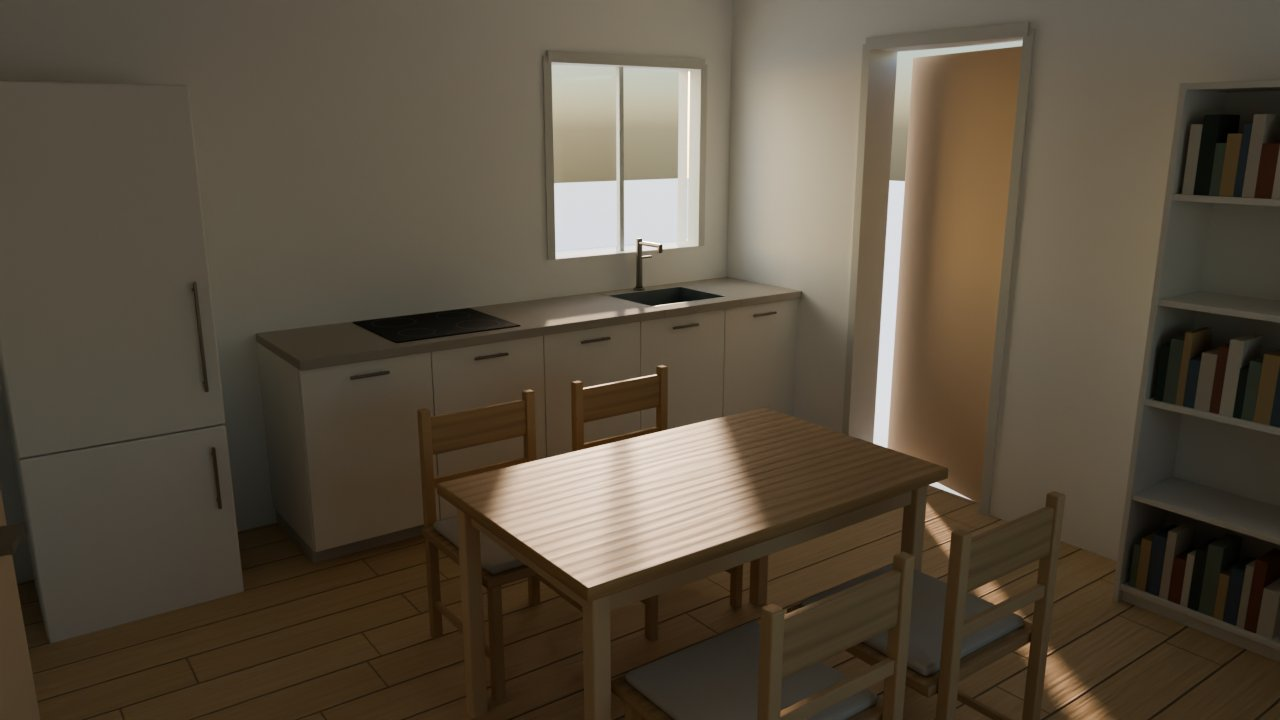
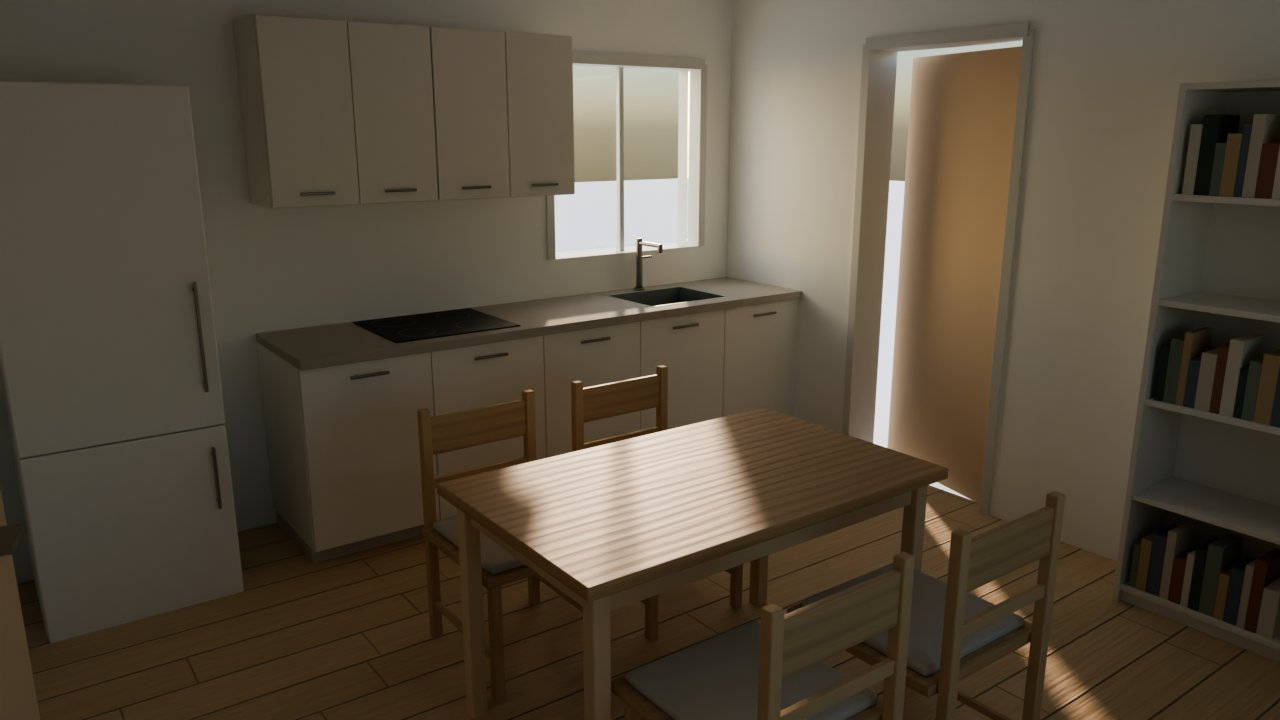
feat: parametric kitchen modules and hung wall cabinets
Catalog modules (base, sink, hob, oven, column, wall, vanity) are now
built from parts with bar handles or a gola/finger-pull option; the
worktop takes the module's PBR finish. The demo kitchen hangs two
wall cabinets over the hob and its render is regenerated.

diff --git a/src/lib/furnitureParts.ts b/src/lib/furnitureParts.ts
@@ -283,11 +283,7 @@ export function kitchenParts(w:number,d:number,h:number):FurniturePart[]{
     parts.push(turned(`Zona ${i+1}`,ring,[r,.0012,r],hx+sx2*hob/4,h+glass-.0005,sz2*hobD/4,{color:'#5d6163'}));
   });
   const tapZ=Math.max(-d/2+.035,sz-sd/2-.045),tapH=.28,spout=Math.min(.2,sz-tapZ+.02);
-  parts.push(turned('Base grifo',DISC,[.06,.012,.06],sx,h,tapZ,{color:METAL,material:'metal'}));
-  parts.push(turned('Grifo',[[0,0],[1,0],[.8,.05],[.8,1],[0,1]],[.042,tapH-.012,.042],sx,h+.012,tapZ,{color:METAL,material:'metal'}));
-  parts.push(part('Caño',[.022,.022,spout],sx,h+tapH-.034,tapZ+spout/2,{color:METAL,material:'metal',bevel:.0105}));
-  parts.push(part('Boquilla',[.024,.035,.024],sx,h+tapH-.06,tapZ+spout-.015,{color:METAL,material:'metal',bevel:.008}));
-  parts.push(part('Maneta',[.07,.012,.012],sx+.016+.035,h+tapH-.11,tapZ,{color:METAL,material:'metal',bevel:.005}));
+  parts.push(...mixer(sx,h,tapZ,tapH,spout));
   return parts;
 }
 
@@ -407,4 +403,129 @@ export function partsBounds(parts:FurniturePart[]):[Vec3,Vec3]{
   const min:Vec3=[Infinity,Infinity,Infinity],max:Vec3=[-Infinity,-Infinity,-Infinity];
   for(const p of parts)for(let a=0;a<3;a++){min[a]=Math.min(min[a],p.position[a]-p.size[a]/2);max[a]=Math.max(max[a],p.position[a]+p.size[a]/2);}
   return [min,max];
+}
+
+export type ModuleFamily='base'|'wall'|'column'|'sink'|'hob'|'oven'|'vanity';
+const VESSEL:Profile=[[0,0],[.55,0],[.62,.03],[.8,.35],[.94,.75],[1,1],[.93,1],[.88,.8],[.74,.42],[.5,.22],[0,.2]];
+const HOB_RING:Profile=[[.93,0],[1,0],[1,1],[.93,1],[.93,0]];
+/** Round mixer standing on `y` at (x, z) with a spout reaching `spout` towards +z. */
+function mixer(x:number,y:number,z:number,height:number,spout:number):FurniturePart[]{
+  const steel={color:METAL,material:'metal'} as const;
+  return [
+    turned('Base grifo',DISC,[.06,.012,.06],x,y,z,steel),
+    turned('Grifo',[[0,0],[1,0],[.8,.05],[.8,1],[0,1]],[.042,height-.012,.042],x,y+.012,z,steel),
+    part('Caño',[.022,.022,spout],x,y+height-.034,z+spout/2,{...steel,bevel:.0105}),
+    part('Boquilla',[.024,.035,.024],x,y+height-.06,z+spout-.015,{...steel,bevel:.008}),
+    part('Maneta',[.07,.012,.012],x+.051,y+height-.11,z,{...steel,bevel:.005}),
+  ];
+}
+
+/**
+ * Kitchen or bathroom module inside `w × d × h` (front +z). Floor modules stand on a recessed
+ * plinth with the worktop's top at `h`; a wall cabinet's box spans 0…h and the viewer hangs it.
+ * Fronts are `item` with 3 mm gaps; the worktop carries role `worktop` so the viewer applies the
+ * module's worktop finish. `handles: 'none'` swaps bar handles for a recessed gola channel
+ * (floor modules) or fronts that drop 2.5 cm below the box (wall cabinets); ovens keep their bar.
+ * Hob glass, taps and vessel basins stand above `h`, like the linear kitchen's.
+ */
+export function moduleParts(family:ModuleFamily,w:number,d:number,h:number,handles:'bar'|'none'='bar'):FurniturePart[]{
+  const door=.018,gap=HINGE_GAP,bar=handles==='bar',front={color:'item',bevel:.003};
+  const carcass={color:'#ebe6dc',bevel:.002},steel={color:'#a6adab',material:'metal' as const,bevel:.001};
+  const n=w>.65?2:1,parts:FurniturePart[]=[];
+  const handle=(name:string,x:number,y:number,length:number,face:number,horizontal=true)=>{if(bar)parts.push(...barHandle(name,x,y,length,face,d/2,horizontal));};
+
+  if(family==='wall'){
+    const face=bar?d/2-.022:d/2,lip=bar?0:.025,body=face-door-.002+d/2,y0=bar?gap:0;
+    parts.push(part('Cuerpo',[w,h-lip,body],0,lip,-d/2+body/2,carcass));
+    fronts(w,n).forEach(({x,size},i)=>{
+      parts.push(part(`Puerta ${i+1}`,[size,h-gap-y0,door],x,y0,face-door/2,front));
+      handle(`Tirador ${i+1}`,x,y0+.05,Math.min(.16,size*.4),face);
+    });
+    return parts;
+  }
+
+  const plinth=.1,face=d/2-.022,body=face-door-.002+d/2,zc=-d/2+body/2;
+  parts.push(part('Zócalo',[w,plinth,.018],0,0,face-.06,{color:'#c9c3b8',bevel:.002}));
+  if(family==='column'){
+    const split=plinth+(h-plinth)*.4,length=Math.min(.3,(split-plinth)*.6);
+    parts.push(part('Cuerpo',[w,h-plinth,body],0,plinth,zc,carcass));
+    fronts(w,n).forEach(({x,size},i)=>{
+      const hx=n===1||i===1?x-size/2+.04:x+size/2-.04;
+      parts.push(part(`Puerta inferior ${i+1}`,[size,split-plinth-1.5*gap,door],x,plinth+gap,face-door/2,front));
+      parts.push(part(`Puerta superior ${i+1}`,[size,h-gap-split-gap/2,door],x,split+gap/2,face-door/2,front));
+      handle(`Tirador inferior ${i+1}`,hx,split-.04-length/2,length,face,false);
+      handle(`Tirador superior ${i+1}`,hx,split+.04+length/2,length,face,false);
+    });
+    return parts;
+  }
+
+  // Floor modules: carcass, optional gola recess, fronts between the plinth and the worktop.
+  const top=.036,gola=bar?0:.035,y0=plinth+gap,y1=h-top-gola-gap,zone=y1-y0;
+  const basin=Math.min(.18,zone-.05),sw=Math.min(.5,w-.12),sd=Math.min(.4,d-.2);
+  const sz=Math.min(.02,face-door-.002-sd/2-.02),worktop={color:'#c4c0b6',role:'worktop',bevel:.003};
+  if(family==='sink'){
+    const floor=h-basin-.004,side=.018;
+    parts.push(part('Cuerpo',[w,floor-plinth,body],0,plinth,zc,carcass));
+    for(const s of [-1,1])parts.push(part(`Costado ${s<0?'izquierdo':'derecho'}`,[side,h-top-floor,body],s*(w/2-side/2),floor,zc,carcass));
+    const left=(w-sw)/2,back=sz-sd/2+d/2,frontStrip=d/2-sz-sd/2;
+    parts.push(
+      part('Encimera izquierda',[left,top,d],-w/2+left/2,h-top,0,worktop),
+      part('Encimera derecha',[left,top,d],w/2-left/2,h-top,0,worktop),
+      part('Encimera trasera',[sw,top,back],0,h-top,-d/2+back/2,{...worktop,bevel:0}),
+      part('Encimera frontal',[sw,top,frontStrip],0,h-top,d/2-frontStrip/2,{...worktop,bevel:0}),
+      part('Fondo fregadero',[sw,.004,sd],0,h-basin,sz,steel),
+      part('Pared fregadero trasera',[sw,basin-.004,.008],0,h-basin+.004,sz-sd/2+.004,steel),
+      part('Pared fregadero frontal',[sw,basin-.004,.008],0,h-basin+.004,sz+sd/2-.004,steel),
+      part('Pared fregadero izquierda',[.008,basin-.004,sd-.016],-sw/2+.004,h-basin+.004,sz,steel),
+      part('Pared fregadero derecha',[.008,basin-.004,sd-.016],sw/2-.004,h-basin+.004,sz,steel),
+      turned('Desagüe fregadero',DISC,[.07,.003,.07],0,h-basin+.003,sz,{color:'#7f8583',material:'metal'}),
+    );
+    const tapZ=Math.max(-d/2+.035,sz-sd/2-.045);
+    parts.push(...mixer(0,h,tapZ,.28,Math.min(.2,sz-tapZ+.02)));
+  }else{
+    parts.push(part('Cuerpo',[w,h-top-gola-plinth,body],0,plinth,zc,carcass));
+    if(gola)parts.push(part('Fondo gola',[w,gola,body-.03],0,h-top-gola,-d/2+(body-.03)/2,{...carcass,bevel:0}));
+    parts.push(part('Encimera',[w,top,d],0,h-top,0,worktop));
+  }
+  if(gola)parts.push(part('Perfil gola',[family==='sink'?w-.04:w-.004,.008,.028],0,h-top-gola,face-door-.016,{color:'#9a9d9b',material:'metal',bevel:.001}));
+
+  const drawers=(ratios:number[],from:number,to:number)=>{
+    const total=ratios.reduce((a,b)=>a+b,0),free=to-from-(ratios.length-1)*gap;let y=from;
+    ratios.forEach((r,i)=>{
+      const height=free*r/total;
+      parts.push(part(`Cajón ${i+1}`,[w-2*gap,height,door],0,y,face-door/2,front));
+      handle(`Tirador cajón ${i+1}`,0,y+height-.045,Math.min(.3,w*.45),face);
+      y+=height+gap;
+    });
+  };
+  if(family==='hob'){
+    drawers([.45,.33,.22],y0,y1);
+    const hob=Math.min(.58,w-.04),hobD=Math.min(.51,d-.1);
+    parts.push(part('Placa',[hob,.006,hobD],0,h,0,{color:'#262829',bevel:.003}));
+    [[-1,-1,.2],[-1,1,.16],[1,-1,.16],[1,1,.2]].forEach(([sx,sz2,size],i)=>{
+      const r=Math.min(size,hob*.42,hobD*.42);
+      parts.push(turned(`Zona ${i+1}`,HOB_RING,[r,.0012,r],sx*hob/4,h+.0055,sz2*hobD/4,{color:'#5d6163'}));
+    });
+  }else if(family==='oven'){
+    const oven=Math.min(.6,zone-.12),panel=.075,base=y1-oven;
+    drawers([1],y0,base-gap);
+    parts.push(part('Frente horno',[w-2*gap,oven,door],0,base,face-door/2,{color:'#2a2d2e',bevel:.003}));
+    parts.push(part('Cristal horno',[w*.72,oven-panel-.15,.004],0,base+.05,face+.002,{color:'#101416',material:'glass',bevel:0}));
+    parts.push(part('Pantalla horno',[.09,.026,.003],0,y1-panel/2-.013,face+.0015,{color:'#0c0f10',material:'glass',bevel:0}));
+    for(const s of [-1,1])parts.push(part(`Mando ${s<0?'izquierdo':'derecho'}`,[.036,.036,.018],s*w*.32,y1-panel/2-.018,face+.009,{color:METAL,material:'metal',bevel:.017}));
+    parts.push(...barHandle('Tirador horno',0,y1-panel-.035,w*.7,face,d/2,true));
+  }else if(family==='vanity'){
+    drawers([1,1],y0,y1);
+    const vessel=.14,basinW=Math.min(w*.7,.52),basinD=Math.min(d*.78,.4),basinZ=Math.min(.03,d/2-basinD/2-.01);
+    parts.push(turned('Lavabo',VESSEL,[basinW,vessel,basinD],0,h,basinZ,{color:CERAMIC}));
+    parts.push(turned('Desagüe',DISC,[.04,.004,.04],0,h+vessel*.2-.001,basinZ,{color:'#b9bcbb',material:'metal'}));
+    const tapZ=Math.max(-d/2+.035,basinZ-basinD/2-.04);
+    parts.push(...mixer(0,h,tapZ,vessel+.18,Math.min(.17,basinZ-tapZ)));
+  }else{
+    fronts(w,n).forEach(({x,size},i)=>{
+      parts.push(part(`Puerta ${i+1}`,[size,zone,door],x,y0,face-door/2,front));
+      handle(`Tirador ${i+1}`,x,y1-.05,Math.min(.16,size*.4),face);
+    });
+  }
+  return parts;
 }

diff --git a/src/components/Scene3D.tsx b/src/components/Scene3D.tsx
@@ -16,7 +16,7 @@ import { defaultStudio, objectCamera, physicalProperties, studioSubject } from '
 import { textureMapsPending, useTextureLibraryRevision } from '../lib/textureCache';
 import { heightToNormal, surfaceMaps, type SurfaceKind } from '../lib/surfaceTextures';
 import { latheGeometry, physicalBox, type Crown, type Profile } from '../lib/boxGeometry';
-import { bedParts, chairParts, bookshelfParts, deskParts, fridgeParts, islandParts, kitchenParts, lampParts, nightstandParts, plantPotParts, plantSoilHeight, showerParts, sinkParts, sofaParts, tableParts, toiletParts, wardrobeParts, type FurniturePart } from '../lib/furnitureParts';
+import { bedParts, chairParts, bookshelfParts, deskParts, fridgeParts, islandParts, kitchenParts, lampParts, moduleParts, nightstandParts, plantPotParts, plantSoilHeight, showerParts, sinkParts, sofaParts, tableParts, toiletParts, wardrobeParts, type FurniturePart } from '../lib/furnitureParts';
 import { plantGeometry, seedFrom } from '../lib/plantGeometry';
 const SurfaceContext=createContext<string|undefined>(undefined);
 function textureProps(kind:SurfaceKind){const {map,normalMap,roughnessMap,metalnessMap}=surfaceMaps(kind);return {map,normalMap,roughnessMap,metalnessMap};}
@@ -180,21 +180,15 @@ function ModelShape({item,selected}:{item:Furniture;selected:boolean}){
   const fallback=<group><Box position={[0,item.h/2,0]} size={[item.w,item.h,item.d]} color="#d2b7a4"/><Html center position={[0,item.h+.15,0]}><span className="model-unavailable">{item.name}: modelo no disponible</span></Html></group>;
   return url?<ErrorBoundary key={url} fallback={fallback}><Suspense fallback={<Box position={[0,item.h/2,0]} size={[item.w,item.h,item.d]} color="#ddd5c5"/>}><ImportedModel url={url} item={item} selected={selected}/></Suspense></ErrorBoundary>:fallback;
 }
-function ModuleModel({item}:{item:Furniture}){
-  const m=item.module!;const elevation=m.family==='wall'?1.45:0;
-  return <group position={[0,elevation,0]}>
-    <Box position={[0,item.h/2,0]} size={[item.w,item.h,item.d]} color="#ece7dd"/>
-    <Box position={[0,item.h/2,item.d/2+.012]} size={[item.w-.025,item.h-.035,.025]} color={m.front}/>
-    {m.handles==='bar'&&<Box position={[item.w*.28,item.h*.7,item.d/2+.04]} size={[.14,.018,.025]} color="#68665f" material="metal"/>}
-    {m.family!=='wall'&&m.family!=='column'&&<Box position={[0,item.h+.018,0]} size={[item.w+.025,.036,item.d+.04]} color="#c4c0b6" finishId={m.worktop}/>}
-    {(m.family==='sink'||m.family==='vanity')&&<><Box position={[0,item.h+.04,0]} size={[item.w*.65,.025,item.d*.55]} color="#b4b9b5" material="metal"/><Box position={[0,item.h+.16,-item.d*.3]} size={[.025,.27,.025]} color="#878d8a" material="metal"/></>}
-    {m.family==='hob'&&<Box position={[0,item.h+.045,0]} size={[item.w*.8,.02,item.d*.7]} color="#272a29"/>}
-    {m.family==='oven'&&<Box position={[0,item.h*.5,item.d/2+.035]} size={[item.w*.8,item.h*.65,.025]} color="#343a39"/>}
-  </group>;
+function ModuleModel({item,wood}:{item:Furniture;wood:string}){
+  const m=item.module!;
+  const parts=useMemo(()=>moduleParts(m.family,item.w,item.d,item.h,m.handles),[m.family,m.handles,item.w,item.d,item.h]);
+  // Wall cabinets hang with their underside at 1.45 m; the rest stand on the floor.
+  return <group position={[0,m.family==='wall'?1.45:0,0]}><Parts parts={parts} item={{...item,color:m.front}} wood={wood} worktop={m.worktop}/></group>;
 }
 // Parametric furniture is built from parts (src/lib/furnitureParts.ts), all inside the plan footprint.
-function Parts({parts,item,wood}:{parts:FurniturePart[];item:Furniture;wood:string}){
-  return <>{parts.map(p=><Box key={p.name} position={p.position} size={p.size} color={p.color==='item'?item.color:p.color==='wood'?wood:p.color} surface={p.surface} material={p.material} role={p.role} bevel={p.bevel} crown={p.crown} lathe={p.lathe}/>)}</>;
+function Parts({parts,item,wood,worktop}:{parts:FurniturePart[];item:Furniture;wood:string;worktop?:string}){
+  return <>{parts.map(p=><Box key={p.name} finishId={p.role==='worktop'?worktop:undefined} position={p.position} size={p.size} color={p.color==='item'?item.color:p.color==='wood'?wood:p.color} surface={p.surface} material={p.material} role={p.role} bevel={p.bevel} crown={p.crown} lathe={p.lathe}/>)}</>;
 }
 function WovenRug({item}:{item:Furniture}){
   const weave=useMemo(()=>{
@@ -243,7 +237,7 @@ function Plant({item,wood}:{item:Furniture;wood:string}){
   </>;
 }
 function FurnitureShape({item,project,selected}:{item:Furniture;project:Project;selected:boolean}){
-  if(item.module)return <ModuleModel item={item}/>;
+  if(item.module)return <ModuleModel item={item} wood={project.palette.wood}/>;
   const {w,d,h}=item;
   const wood=project.palette.wood;
   switch(item.kind){

diff --git a/src/__tests__/furniture-parts.test.ts b/src/__tests__/furniture-parts.test.ts
@@ -1,5 +1,5 @@
 import { describe, expect, it } from 'vitest';
-import { FACE_GAP, bedParts, bookshelfParts, chairParts, cushionCount, deskParts, fridgeParts, fronts, islandParts, kitchenParts, lampParts, nightstandParts, partsBounds, plantPotParts, plantSoilHeight, showerParts, sinkParts, sofaParts, tableParts, toiletParts, wardrobeParts } from '../lib/furnitureParts';
+import { FACE_GAP, bedParts, bookshelfParts, chairParts, cushionCount, deskParts, fridgeParts, fronts, islandParts, kitchenParts, lampParts, moduleParts, nightstandParts, partsBounds, plantPotParts, plantSoilHeight, showerParts, sinkParts, sofaParts, tableParts, toiletParts, wardrobeParts } from '../lib/furnitureParts';
 import { plantGeometry, seedFrom } from '../lib/plantGeometry';
 
 const overlapArea=(a:{position:number[];size:number[]},b:{position:number[];size:number[]},axis:number)=>{
@@ -84,6 +84,30 @@ describe('parametric furniture', () => {
       expect(Math.max(...p.lathe!.map(([r])=>r)),p.name).toBe(1);
       expect(Math.min(...p.lathe!.map(([,y])=>y)),p.name).toBe(0);expect(Math.max(...p.lathe!.map(([,y])=>y)),p.name).toBe(1);
     }
+  });
+
+  const moduleSizes={base:[.6,.6,.88],sink:[.8,.6,.88],hob:[.6,.6,.88],oven:[.6,.6,.88],vanity:[.6,.46,.85],wall:[.8,.35,.72],column:[.6,.6,2.1]} as const;
+  for(const [family,[w,d,h]] of Object.entries(moduleSizes))for(const handles of ['bar','none'] as const)for(const scale of [1,.75,1.5])it(`${family} module ${handles} handles at ${scale} × width stays in its footprint`, () => {
+    const width=w*scale,parts=moduleParts(family as keyof typeof moduleSizes,width,d,h,handles),[min,max]=partsBounds(parts);
+    expect(min[0]).toBeCloseTo(-width/2,9);expect(max[0]).toBeCloseTo(width/2,9);
+    expect(min[2]).toBeGreaterThanOrEqual(-d/2-1e-9);expect(max[2]).toBeLessThanOrEqual(d/2+1e-9);
+    expect(min[1]).toBeCloseTo(0,9);
+    // Hob glass, taps and vessel basins stand on the worktop, above `h`.
+    if(['sink','hob','vanity'].includes(family))expect(max[1]).toBeLessThan(h+.35);else expect(max[1]).toBeCloseTo(h,9);
+    expect(new Set(parts.map(p=>p.name)).size).toBe(parts.length);
+    for(const p of parts)expect(Math.min(...p.size)).toBeGreaterThan(0);
+    const boxes=parts.filter(p=>!p.lathe);
+    for(let i=0;i<boxes.length;i++)for(let j=i+1;j<boxes.length;j++)for(let a=0;a<3;a++)
+      expect(overlapArea(boxes[i],boxes[j],a),`${boxes[i].name} / ${boxes[j].name} axis ${a}`).toBeLessThan(1e-9);
+    // Floor modules keep the worktop at h with its finish role; bar handles only when asked for (ovens always have one).
+    if(family!=='wall'&&family!=='column'){
+      const top=parts.filter(p=>p.role==='worktop');
+      expect(top.length).toBeGreaterThan(0);
+      for(const t of top)expect(t.position[1]+t.size[1]/2).toBeCloseTo(h,9);
+    }
+    const bars=parts.filter(p=>p.name.startsWith('Tirador')&&!p.name.includes('soporte')).map(p=>p.name);
+    if(handles==='none')expect(bars).toEqual(family==='oven'?['Tirador horno']:[]);
+    else expect(bars.length).toBeGreaterThan(0);
   });
 
   it('gives a wardrobe ~50 cm doors with 3 mm gaps and handles on the meeting edges', () => {

diff --git a/e2e/product.e2e.ts b/e2e/product.e2e.ts
@@ -59,9 +59,9 @@ test('guarda y restaura tres cocinas con acabados distintos sin mover paredes ni
     await expect(page.getByText('Versión guardada con geometría, modelos, acabados y cámara.',{exact:true})).toBeVisible();
   }
   await page.getByRole('button',{name:'Restaurar Cocina A',exact:true}).click();await expect(page.getByText(/Restaurada «Cocina A»/)).toBeVisible();await closeStudio(page);
-  const a=await exported(page);expect(a.furniture.find((f:{module?:unknown})=>f.module)?.module.front).toBe('#aabbcc');expect(a.walls).toEqual(base.walls);expect(a.render.camera).toBeTruthy();
+  const a=await exported(page);expect(a.furniture.find((f:{productId?:string})=>f.productId==='atelier60:module:base')?.module.front).toBe('#aabbcc');expect(a.walls).toEqual(base.walls);expect(a.render.camera).toBeTruthy();
   await studio(page,'Versiones');await page.getByRole('button',{name:'Restaurar Cocina C',exact:true}).click();await expect(page.getByText(/Restaurada «Cocina C»/)).toBeVisible();await closeStudio(page);
-  const c=await exported(page);expect(c.furniture.find((f:{module?:unknown})=>f.module)?.module.front).toBe('#445566');expect(c.render.camera).toEqual(a.render.camera);expect(c.walls).toEqual(a.walls);
+  const c=await exported(page);expect(c.furniture.find((f:{productId?:string})=>f.productId==='atelier60:module:base')?.module.front).toBe('#445566');expect(c.render.camera).toEqual(a.render.camera);expect(c.walls).toEqual(a.walls);
   await page.reload();await studio(page,'Versiones');await expect(page.getByRole('button',{name:'Restaurar Cocina B',exact:true})).toBeVisible();
 });
 

diff --git a/src/__tests__/demo-project.test.ts b/src/__tests__/demo-project.test.ts
@@ -22,7 +22,7 @@ describe('demo project', () => {
   });
 
   it('keeps furniture inside the plan and apart, except chairs tucked under a table', () => {
-    const boxes=demoProject.furniture.filter(f=>f.kind!=='rug').map(f=>({id:f.id,kind:f.kind,...footprint(f)}));
+    const boxes=demoProject.furniture.filter(f=>f.kind!=='rug').map(f=>({id:f.id,kind:f.kind,hung:f.module?.family==='wall',...footprint(f)}));
     const tucked=(a:{kind:string},b:{kind:string})=>a.kind==='chair'&&['table','desk','island'].includes(b.kind);
     for(const b of boxes){
       expect(b.x0,b.id).toBeGreaterThanOrEqual(0);expect(b.y0,b.id).toBeGreaterThanOrEqual(0);
@@ -30,7 +30,8 @@ describe('demo project', () => {
     }
     for(let i=0;i<boxes.length;i++)for(let j=i+1;j<boxes.length;j++){
       const a=boxes[i],b=boxes[j];
-      if(tucked(a,b)||tucked(b,a))continue;
+      // Wall cabinets hang above the worktop, so only other hung cabinets can clash with them.
+      if(tucked(a,b)||tucked(b,a)||a.hung!==b.hung)continue;
       const overlap=a.x0<b.x1-1e-9&&a.x1>b.x0+1e-9&&a.y0<b.y1-1e-9&&a.y1>b.y0+1e-9;
       expect(overlap,`${a.id} overlaps ${b.id}`).toBe(false);
     }

diff --git a/src/data/defaultProject.ts b/src/data/defaultProject.ts
@@ -51,6 +51,9 @@ export const demoProject: Project = {
     furniture('chair-3','chair','Silla',1.8,4.33,.48,.52,.85,180,'#c4a47d'),
     furniture('chair-4','chair','Silla',2.4,4.33,.48,.52,.85,180,'#c4a47d'),
     furniture('kitchen-1','kitchen','Cocina lineal',1.43,5.62,2.7,.65,.9,180,'#ece7dd'),
+    // Wall cabinets hang at 1.45 m beside the kitchen window, over the hob end of the run.
+    {...furniture('wall-1','kitchen','Mueble alto 1',1.7,5.735,.7,.35,.72,180,'#ece7dd'),module:{family:'wall',front:'#ece7dd',worktop:'wood',handles:'bar'}},
+    {...furniture('wall-2','kitchen','Mueble alto 2',2.4,5.735,.7,.35,.72,180,'#ece7dd'),module:{family:'wall',front:'#ece7dd',worktop:'wood',handles:'bar'}},
     furniture('fridge-1','fridge','Frigorífico',3.38,5.61,.65,.65,1.9,180,'#eeeae4'),
     furniture('bed-main','bed','Cama doble',8.7,1.42,1.6,2,.55,0,'#e0d5c4'),
     furniture('night-main-l','nightstand','Mesilla izquierda',7.65,.62,.4,.36,.5,0,'#d3bb98'),

diff --git a/PROJECT_STATUS.md b/PROJECT_STATUS.md
@@ -21,8 +21,9 @@ Repositorio: `alexisalbaceterodriguez-cmd/project-house-rendering`; rama de refe
 - **Hojas y pantallas translúcidas en Cycles (20/11):** `atelier_render.py` combina los materiales `atelier:leaf` y `atelier:lampshade` con un BSDF Translucent de su color base (enlaces de textura incluidos), sin tocar geometría ni GLB: la hoja **añade** transmisión al 60 % del color base sobre su reflexión y la pantalla **mezcla** un 40 % hacia transmisión (una tela blanca no supera 1). Primer intento descartado tras medirlo: mezclar un 30 % también en hojas oscurecía el follaje un 14 % con luz lateral. A/B misma cámara y escena (primer plano de la planta junto a la ventana, tarde): verde medio del follaje 0,125 → 0,161 (+29 %) frente a sin translucidez; la pantalla nocturna sigue brillando. `result.json` informa `materials.translucent` (3 en el salón: dos tonos de hoja + pantalla) y la prueba de humo con Blender lo comprueba con una pieza `atelier:leaf` nueva en el fixture. La planta del ejemplo pasa a x 3,6 / y 0,45, junto a la ventana: tras girar el sofá quedaba solapada 12 cm con él. Demos del salón re-renderizadas (distribuidor iluminado + translucidez): tarde 13,73 s / 15,06 s, luminancia 0,546; noche 15,59 s / 16,88 s, 0,566; 0 % recortado. 23 Python en local con humo Blender real. Publicado en 33e6e4aad7a675ce44d5442122a5afd39f3ccf2b; CI run [44804341915](https://github.com/alexisalbaceterodriguez-cmd/project-house-rendering/actions/runs/44804341915) (job 136524275669) **success**: 173 unitarias, 23 del motor y 42 E2E. Límite: BSDF de superficie fina, no dispersión subsuperficial medida.
 - **Cocina-comedor y plano de ejemplo corregido (20/11):** `kitchenParts` recorta la encimera en cuatro tramos alrededor de una cubeta de acero bajo encimera de 18 cm (fondo, cuatro paredes y desagüe torneado) y rebaja el módulo inferior bajo ella; la placa lleva cuatro zonas de inducción (anillos torneados) y el grifo es un cuerpo torneado con base, caño, boquilla y maneta lateral; todo dentro de la huella (envolvente y sin caras coplanarias en `furniture-parts.test.ts`). Al encuadrar la cocina aparecieron dos fallos reales del ejemplo: la puerta de entrada (muro sur, x 2,07–2,93) quedaba tapada por la cocina lineal (x 0,08–2,78) y la cama doble invadía 12 cm el armario. La entrada pasa al muro oeste del salón (y 4,1–4,9) y la cama a x 8,7; la nueva `demo-project.test.ts` exige 45 cm libres a ambos lados de cada puerta y ningún mueble solapado (salvo sillas bajo mesa). El ejemplo gana cuatro sillas de comedor y una ventana de 1 × 1 m sobre el fregadero (alféizar 1,10 m): sin ella la cocina, a 5 m de la única ventana, quedaba en penumbra (luminancia media 0,19 frente a 0,33). Re-renderizadas todas las demos con la misma cámara Cycles/WebGL (salón tarde y noche, dormitorio con luz del distribuidor y cámara nueva, baño y cocina-comedor nueva). Comprobado en local: 175 unitarias, build, smoke `cycles-package`. Commit `42057bda6339a58787768809c97def97a5c0c130`, CI [44806485884](https://github.com/alexisalbaceterodriguez-cmd/project-house-rendering/actions/runs/44806485884) (job 136531725477) completed/success: 175 unitarias, 23 pruebas Python del motor (humo Blender omitido) y 42 E2E Chromium. Límite visto: en la captura WebGL los metales (tiradores, grifo, cubeta) salían casi negros; en Cycles se leen como acero (corregido en el punto siguiente).
 - **Metales del visor WebGL calibrados (20/11):** la causa no era la carga del HDR: con iluminación día/noche el visor no tenía mapa de entorno (el `studio.hdr` solo se montaba en modo estudio; ninguna petición del HDR en la escena completa), así que un metal (metalness 0,7) no tenía nada que reflejar. La escena completa monta ahora el mismo HDR local como luz de entorno (0,28 de día, 0,08 de noche), rebaja ambiente y hemisférica (0,65/0,6 → 0,35/0,4 de día) para no lavar los difusos y da a los metales `envMapIntensity` 2,2. Misma cámara de la cocina-comedor: tiradores, grifo y cubeta se leen ahora como acero gris, como en Cycles; la luminancia media de la vista WebGL sube de 0,644 a 0,724 (paredes algo más blancas, más cerca del blanco cálido de Cycles). Las cuatro vistas `-webgl.jpg` de tarde se regeneraron con la misma cámara y escena (el render Cycles no cambia: el paquete es idéntico y el motor lo reutiliza). Unitarias (175), build y smoke `cycles-package` + `studio-render` (6/6) en local. Commit y CI: `f84a271` (f84a2715b435ce14243c9f6a4abebabbaaff044f), run 44807850725 (job 136536426210) **success**: 175 unitarias, 23 Python y 42 E2E. Límite: el entorno es el HDR de estudio, no el exterior real de la vivienda; los reflejos son plausibles, no físicos.
-- **Escritorio, mesilla y estantería paramétricos (20/11):** `deskParts` (tablero veteado, costado, cajonera de 2–3 cajones con tiradores horizontales y faldón trasero), nuevo tipo `nightstand` (`nightstandParts`: patas de madera, cuerpo, 1–2 cajones y tablero) y nuevo tipo `bookshelf` (`bookshelfParts`: costados, zócalo retranqueado, trasera, baldas cada ~36 cm y filas de libros deterministas en baldas alternas, siempre por debajo de la balda superior). Registrados en tipos, validación, catálogo (Dormitorio/Salón) y fuentes de producto como geometría paramétrica original. El plano demo añade dos mesillas junto a la cama doble y una estantería en el muro oeste del salón (holguras de puertas y no solape comprobados por `demo-project.test.ts`). Pruebas de envolvente sin caras coplanarias para 4 escritorios, 3 mesillas y 4 estanterías (52 en `furniture-parts`), 186 unitarias, build y smoke `cycles-package` + `editor` (2/2) en local. Comparación visor/Cycles con la misma cámara (estantería desde el comedor, mesilla en primer plano): misma geometría, cajones, tiradores y libros en ambos. Las cuatro vistas demo de tarde de `render-engine/demo/` se regeneraron con el plano nuevo (Cycles 13,7–21,3 s en OptiX, 0 % recortado); la nocturna del salón es anterior. Commit y CI: __SHA5__, __CI5__. Límite: los libros son volúmenes de color, sin lomos impresos ni textura.
-- **Siguiente tarea exacta:** texturas escaneadas CC0 donde aporten realismo (suelo de roble y tejido de sofá primero), que requieren permiso del usuario para la descarga; mientras tanto, muebles altos opcionales de cocina cuando la altura del objeto lo permita (módulo propio con altura de colgado, sin alterar la envolvente de la bajera) con pruebas de envolvente y comparación visor/Cycles con la misma cámara.
+- **Escritorio, mesilla y estantería paramétricos (20/11):** `deskParts` (tablero veteado, costado, cajonera de 2–3 cajones con tiradores horizontales y faldón trasero), nuevo tipo `nightstand` (`nightstandParts`: patas de madera, cuerpo, 1–2 cajones y tablero) y nuevo tipo `bookshelf` (`bookshelfParts`: costados, zócalo retranqueado, trasera, baldas cada ~36 cm y filas de libros deterministas en baldas alternas, siempre por debajo de la balda superior). Registrados en tipos, validación, catálogo (Dormitorio/Salón) y fuentes de producto como geometría paramétrica original. El plano demo añade dos mesillas junto a la cama doble y una estantería en el muro oeste del salón (holguras de puertas y no solape comprobados por `demo-project.test.ts`). Pruebas de envolvente sin caras coplanarias para 4 escritorios, 3 mesillas y 4 estanterías (52 en `furniture-parts`), 186 unitarias, build y smoke `cycles-package` + `editor` (2/2) en local. Comparación visor/Cycles con la misma cámara (estantería desde el comedor, mesilla en primer plano): misma geometría, cajones, tiradores y libros en ambos. Las cuatro vistas demo de tarde de `render-engine/demo/` se regeneraron con el plano nuevo (Cycles 13,7–21,3 s en OptiX, 0 % recortado); la nocturna del salón es anterior. Commit y CI: `937c1a4`, run 44809492247 success (186 unitarias, 23 Python, 42 E2E). Límite: los libros son volúmenes de color, sin lomos impresos ni textura.
+- **Muebles de cocina modulares paramétricos (20/11):** los módulos de catálogo (`item.module`) dejan de ser una caja con frente y se construyen por piezas con `moduleParts` (`src/lib/furnitureParts.ts`): bajo (1–2 puertas), fregadero (encimera en cuatro tramos, cubeta de acero, grifo torneado), placa (tres cajones, vitrocerámica con cuatro zonas), horno (cajón, frente oscuro, cristal, pantalla, mandos y tirador propio), columna (puertas inferior/superior con tiradores verticales), mueble alto (cuerpo 0…h que el visor cuelga a 1,45 m) y mueble de lavabo (dos cajones, lavabo de sobre encimera y grifo). `handles: 'none'` sustituye los tiradores por gola (perfil metálico retranqueado) en bajos o por frentes con uñero de 2,5 cm en altos. La encimera lleva el rol `worktop` y recibe el acabado PBR del módulo. El ejemplo cuelga dos muebles altos de 70 cm sobre la placa (x 1,35–2,75, junto a la ventana de la cocina); `demo-project.test.ts` solo compara solapes entre piezas del mismo nivel (colgadas o de suelo). 42 pruebas nuevas de envolvente, nombres únicos, caras no coplanarias, altura de encimera y tiradores para 7 familias × 2 estilos × 3 escalas (228 unitarias), build y E2E `product`, `cycles-package` y editor (20/20) en local; el E2E de producto busca ahora su módulo por `productId`. Comparación visor/Cycles con la misma cámara (fila completa con horno, placa, fregadero, columna y gola, y cocina del ejemplo): misma geometría. Demo cocina-comedor re-renderizada: 15,86 s / 17,78 s, luminancia 0,306, 0 % recortado. Commit y CI: `__SHA6__`, __CI6__. Límite: la encimera `wood` del ejemplo usa la textura de tablas sintética por pieza; sin bisagras, cantos de encimera ni electrodomésticos integrados más allá del horno.
+- **Siguiente tarea exacta:** texturas escaneadas CC0 donde aporten realismo (suelo de roble y tejido de sofá primero), que requieren permiso del usuario para la descarga; mientras tanto, nuevos objetos paramétricos por lotes (campana extractora sobre la placa, aparador/mueble de TV y butaca) con pruebas de envolvente y comparación visor/Cycles con la misma cámara.
 
 ## Estado anterior — presentación de interiores, 20/11/2026
 

diff --git a/render-engine/README.md b/render-engine/README.md
@@ -98,10 +98,10 @@ Calidades: `draft` 64, `standard` 256, `high` 1024 muestras con denoiser OpenIma
 | Tarde (piezas, distribuidor iluminado, hojas y pantalla translúcidas) | `nordic-living-afternoon-cycles.jpg` vs `-webgl.jpg` | 13,68 s | 15,53 s | 0,541 | 0 % (antes 11,3 % sin window pull) |
 | Tarde, dormitorio principal | `nordic-bedroom-afternoon-cycles.jpg` vs `-webgl.jpg` | 14,48 s | 16,24 s | 0,493 | 0 % |
 | Tarde, baño 1 (sin ventana, luz de techo) | `nordic-bathroom-afternoon-cycles.jpg` vs `-webgl.jpg` | 21,26 s | 22,99 s | 0,637 | 0 % |
-| Tarde, cocina-comedor (ventana sobre el fregadero) | `nordic-kitchen-afternoon-cycles.jpg` vs `-webgl.jpg` | 15,94 s | 17,67 s | 0,314 | 0 % |
+| Tarde, cocina-comedor (ventana sobre el fregadero) | `nordic-kitchen-afternoon-cycles.jpg` vs `-webgl.jpg` | 15,86 s | 17,78 s | 0,306 | 0 % |
 | Noche | `nordic-living-night-cycles.jpg` | 15,73 s | 17,24 s | 0,556 | 0 % |
 
-1280 × 720, 256 muestras, OptiX en RTX 5070 Laptop, Blender 4.5.16 LTS. La mesa de centro, la lámpara y el giro del sofá de la demo se añadieron en tiempo de ejecución; no forman parte del proyecto por defecto. Desde el 20/11 el proyecto por defecto incluye dos mesillas junto a la cama doble y una estantería en el muro oeste del salón, y las cuatro vistas de tarde (Cycles y WebGL) se regeneraron con ellas; la vista nocturna del salón es anterior. Desde el 20/11 el sofá, la cama, la mesa, la silla y el armario tienen aristas redondeadas dentro de sus medidas exteriores (`src/lib/boxGeometry.ts`); el GLB lleva la misma malla que el visor. El mobiliario se compone de piezas paramétricas (`src/lib/furnitureParts.ts`): zócalo, brazos, respaldo y cojines de asiento y respaldo separados con holgura de 1 cm y tapa abombada; cabecero, canapé, colchón, almohadas y edredón dentro de la huella del plano. También armario (puertas con holgura, tiradores y zócalo), mesa, isla, silla, cocina lineal (muebles bajos, encimera recortada alrededor de una cubeta de acero bajo encimera con desagüe, placa de inducción con cuatro zonas marcadas y grifo torneado con caño sobre la cubeta; sin muebles altos, porque la huella del plano mide 0,9 m de alto), escritorio con cajonera, mesilla de noche, estantería con libros, frigorífico, inodoro, mueble de lavabo suspendido con lavabo de sobre encimera, ducha con mampara y rociador, lámpara de pie y maceta; las piezas torneadas (taza, lavabo, grifería, pantalla, maceta) son sólidos de revolución (`latheGeometry`) y la planta tiene follaje generado de forma determinista a partir del id del objeto (`src/lib/plantGeometry.ts`), siempre dentro de la huella y la altura del plano. El frente de cada pieza mira a +z con giro 0; el proyecto de ejemplo gira los muebles apoyados en muros y=fondo o x=0 para que miren a la sala, pero los proyectos guardados conservan sus giros. Todas las cifras incluyen ya la luz de techo del distribuidor y la translucidez (el render pasó de unos 9–11 s a 14–21 s). El 20/11 se corrigieron dos fallos del plano de ejemplo que comprueba `src/__tests__/demo-project.test.ts` (ninguna puerta con muebles a menos de 45 cm y ningún mueble solapado salvo sillas bajo mesa): la puerta de entrada quedaba tapada por la cocina lineal y pasó al muro oeste del salón (y 4,1–4,9), y la cama doble invadía 12 cm el armario y se desplazó a x 8,7, con nueva cámara del dormitorio. El ejemplo gana cuatro sillas de comedor y una ventana de 1 × 1 m sobre el fregadero (alféizar 1,10 m), sin la cual la cocina, a 5 m de la única ventana del salón, quedaba en penumbra (luminancia media 0,19). En el salón asoman ahora las sillas en el borde izquierdo. Las vistas `-webgl.jpg` de tarde se regeneraron tras dar entorno HDR al visor: antes los metales (tiradores, grifo, cubeta) salían casi negros. La planta del ejemplo se movió junto a la ventana (x 3,6, y 0,45) porque tras girar el sofá quedaba solapada 12 cm con él; queda fuera de este encuadre. Siguen siendo volúmenes paramétricos: no hay costuras, arrugas ni caída de tela simuladas, y la translucidez es un BSDF de superficie fina, no dispersión subsuperficial medida.
+1280 × 720, 256 muestras, OptiX en RTX 5070 Laptop, Blender 4.5.16 LTS. La mesa de centro, la lámpara y el giro del sofá de la demo se añadieron en tiempo de ejecución; no forman parte del proyecto por defecto. Desde el 20/11 el proyecto por defecto incluye dos mesillas junto a la cama doble y una estantería en el muro oeste del salón, y las cuatro vistas de tarde (Cycles y WebGL) se regeneraron con ellas; la vista nocturna del salón es anterior. Desde el 20/11 el sofá, la cama, la mesa, la silla y el armario tienen aristas redondeadas dentro de sus medidas exteriores (`src/lib/boxGeometry.ts`); el GLB lleva la misma malla que el visor. El mobiliario se compone de piezas paramétricas (`src/lib/furnitureParts.ts`): zócalo, brazos, respaldo y cojines de asiento y respaldo separados con holgura de 1 cm y tapa abombada; cabecero, canapé, colchón, almohadas y edredón dentro de la huella del plano. También armario (puertas con holgura, tiradores y zócalo), mesa, isla, silla, cocina lineal (muebles bajos, encimera recortada alrededor de una cubeta de acero bajo encimera con desagüe, placa de inducción con cuatro zonas marcadas y grifo torneado con caño sobre la cubeta; la huella del plano mide 0,9 m de alto, así que los muebles altos son objetos aparte), módulos de cocina y baño paramétricos (`moduleParts`: bajo, fregadero, placa con cajones, horno con cristal y mandos, columna, mueble alto colgado a 1,45 m y mueble de lavabo, con tiradores de barra o gola/frente con uñero; el ejemplo cuelga dos muebles altos sobre la placa), escritorio con cajonera, mesilla de noche, estantería con libros, frigorífico, inodoro, mueble de lavabo suspendido con lavabo de sobre encimera, ducha con mampara y rociador, lámpara de pie y maceta; las piezas torneadas (taza, lavabo, grifería, pantalla, maceta) son sólidos de revolución (`latheGeometry`) y la planta tiene follaje generado de forma determinista a partir del id del objeto (`src/lib/plantGeometry.ts`), siempre dentro de la huella y la altura del plano. El frente de cada pieza mira a +z con giro 0; el proyecto de ejemplo gira los muebles apoyados en muros y=fondo o x=0 para que miren a la sala, pero los proyectos guardados conservan sus giros. Todas las cifras incluyen ya la luz de techo del distribuidor y la translucidez (el render pasó de unos 9–11 s a 14–21 s). El 20/11 se corrigieron dos fallos del plano de ejemplo que comprueba `src/__tests__/demo-project.test.ts` (ninguna puerta con muebles a menos de 45 cm y ningún mueble solapado salvo sillas bajo mesa): la puerta de entrada quedaba tapada por la cocina lineal y pasó al muro oeste del salón (y 4,1–4,9), y la cama doble invadía 12 cm el armario y se desplazó a x 8,7, con nueva cámara del dormitorio. El ejemplo gana cuatro sillas de comedor y una ventana de 1 × 1 m sobre el fregadero (alféizar 1,10 m), sin la cual la cocina, a 5 m de la única ventana del salón, quedaba en penumbra (luminancia media 0,19). En el salón asoman ahora las sillas en el borde izquierdo. Las vistas `-webgl.jpg` de tarde se regeneraron tras dar entorno HDR al visor: antes los metales (tiradores, grifo, cubeta) salían casi negros. La planta del ejemplo se movió junto a la ventana (x 3,6, y 0,45) porque tras girar el sofá quedaba solapada 12 cm con él; queda fuera de este encuadre. Siguen siendo volúmenes paramétricos: no hay costuras, arrugas ni caída de tela simuladas, y la translucidez es un BSDF de superficie fina, no dispersión subsuperficial medida.
 
 ## Seguridad
 

diff --git a/ROADMAP.md b/ROADMAP.md
@@ -112,7 +112,7 @@ Motor local independiente en [`render-engine/`](render-engine/README.md): el edi
 | R9 | Ediciones IA controladas que preservan la arquitectura | Pendiente |
 | R10 | Presentación cinematográfica (recorridos, variantes) | Pendiente |
 
-Hecho (20/11): aristas biseladas en sofá, cama, mesa, silla y armario; mobiliario paramétrico por piezas (tapicería de sofá y cama, armario, mesa, silla, isla, cocina, frigorífico, inodoro, lavabo, ducha, lámpara y planta, con piezas torneadas) compartido por visor y GLB dentro de la huella del plano; luz de techo diurna en recintos sin ventana (`lighting.litRooms`); hojas y pantallas translúcidas en Cycles; cocina con cubeta bajo encimera, placa con zonas y grifo torneado, y demo de cocina-comedor; metales del visor WebGL calibrados con el HDR local como luz de entorno en la escena completa; escritorio con cajonera, mesilla y estantería con libros como piezas paramétricas nuevas. Siguiente paso: texturas escaneadas CC0 donde aporten realismo (con permiso de descarga) y muebles altos de cocina.
+Hecho (20/11): aristas biseladas en sofá, cama, mesa, silla y armario; mobiliario paramétrico por piezas (tapicería de sofá y cama, armario, mesa, silla, isla, cocina, frigorífico, inodoro, lavabo, ducha, lámpara y planta, con piezas torneadas) compartido por visor y GLB dentro de la huella del plano; luz de techo diurna en recintos sin ventana (`lighting.litRooms`); hojas y pantallas translúcidas en Cycles; cocina con cubeta bajo encimera, placa con zonas y grifo torneado, y demo de cocina-comedor; metales del visor WebGL calibrados con el HDR local como luz de entorno en la escena completa; escritorio con cajonera, mesilla y estantería con libros como piezas paramétricas nuevas; módulos de cocina y baño por piezas (bajo, fregadero, placa, horno, columna, mueble alto y lavabo, con tirador o gola) y dos muebles altos colgados en el ejemplo. Siguiente paso: texturas escaneadas CC0 donde aporten realismo (con permiso de descarga) y nuevos objetos (campana, aparador, butaca).
 
 ### Arquitectura común y secuencia
 
